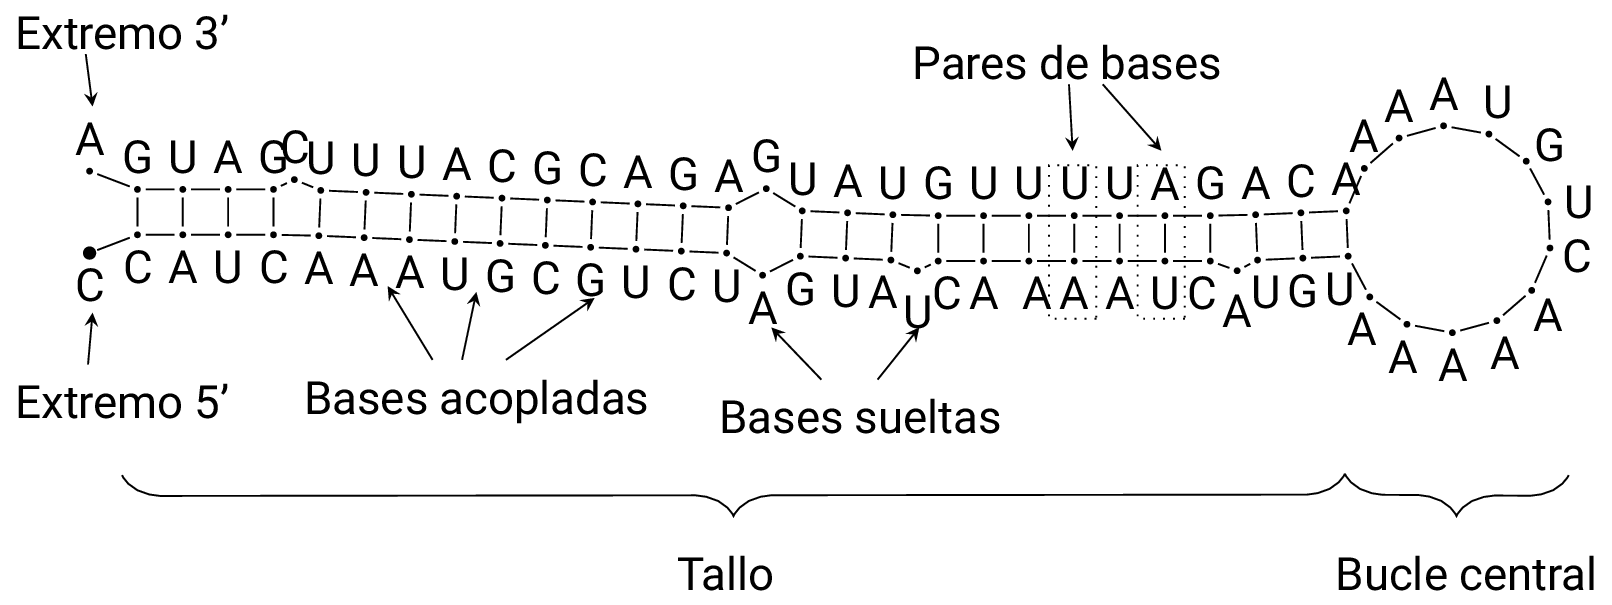
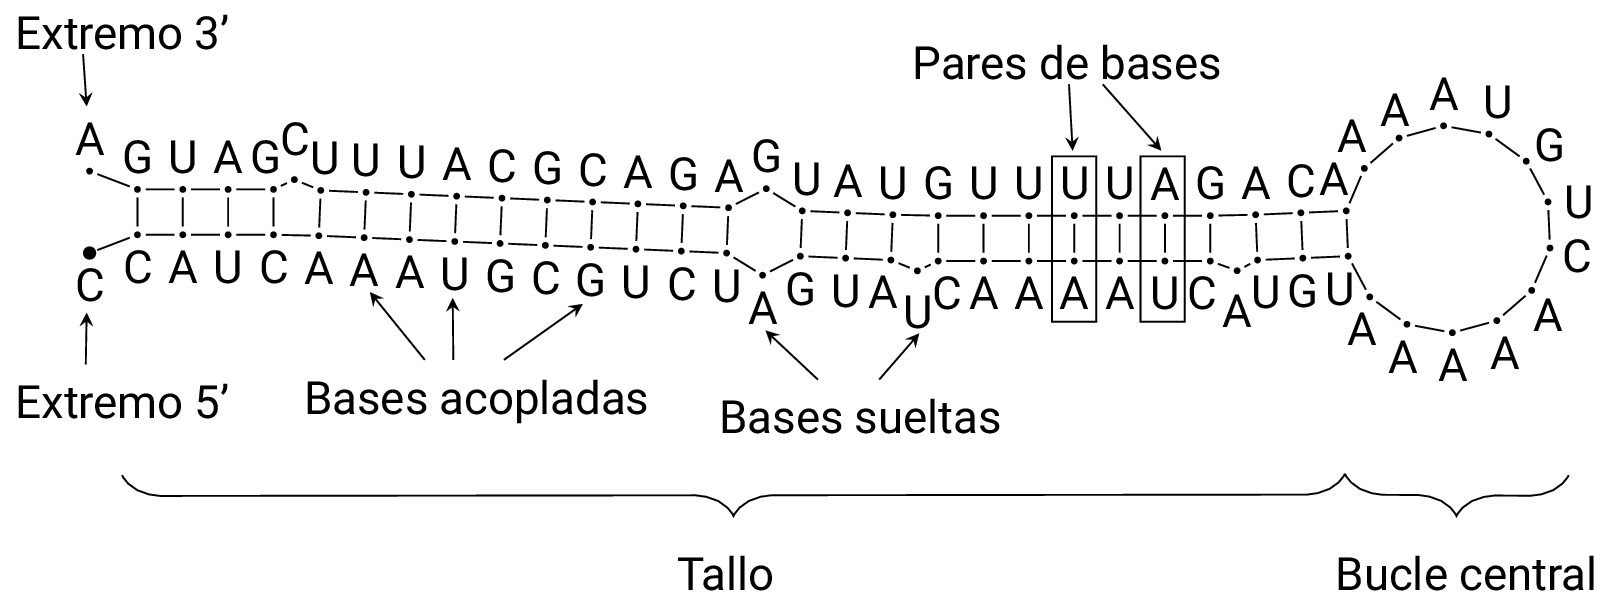
pequeños cambios

diff --git a/figures/hairpin_cel-lsy-6/hairpin.tikz.tex b/figures/hairpin_cel-lsy-6/hairpin.tikz.tex
@@ -48,7 +48,7 @@
 \fill[] (21) circle (1.1);
 \coordinate[label={[xshift=0,yshift=0]below:A}] (22) at (90.3837,27.5196);
 \fill[] (22) circle (1.1);
-\coordinate[label={[xshift=2,yshift=0]below:A}] (23) at (90.3837,12.5196);
+\coordinate[label={[xshift=0,yshift=0]below:A}] (23) at (90.3837,12.5196);
 \fill[] (23) circle (1.1);
 \coordinate[label={[xshift=0,yshift=0]below:A}] (24) at (90.3837,-2.4804);
 \fill[] (24) circle (1.1);
@@ -86,11 +86,11 @@
 \fill[] (40) circle (1.1);
 \coordinate[label={[xshift=0,yshift=0]above:A}] (41) at (135.1205,-124.6396);
 \fill[] (41) circle (1.1);
-\coordinate[label={[xshift=0,yshift=0]above:A}] (42) at (131.0625,-109.9258);
+\coordinate[label={[xshift=-1,yshift=-1]above:A}] (42) at (131.0625,-109.9258);
 \fill[] (42) circle (1.1);
-\coordinate[label={[xshift=0,yshift=0]above:A}] (43) at (121.0159,-98.4354);
+\coordinate[label={[xshift=-3,yshift=0]above:A}] (43) at (121.0159,-98.4354);
 \fill[] (43) circle (1.1);
-\coordinate[label={[xshift=0,yshift=0]above:A}] (44) at (106.9753,-92.4500);
+\coordinate[label={[xshift=-3,yshift=0]above:A}] (44) at (106.9753,-92.4500);
 \fill[] (44) circle (1.1);
 \coordinate[label={[xshift=0,yshift=0]above:C}] (45) at (106.3387,-77.4635);
 \fill[] (45) circle (1.1);
@@ -114,7 +114,7 @@
 \fill[] (54) circle (1.1);
 \coordinate[label={[xshift=0,yshift=0]above:A}] (55) at (106.3387,72.5027);
 \fill[] (55) circle (1.1);
-\coordinate[label={[xshift=0,yshift=0]above:U}] (56) at (106.9753,87.4892);
+\coordinate[label={[xshift=1,yshift=0]above:U}] (56) at (106.9753,87.4892);
 \fill[] (56) circle (1.1);
 \coordinate[label={[xshift=0,yshift=0]above:G}] (57) at (114.3110,99.3921);
 \fill[] (57) circle (1.1);
@@ -136,11 +136,11 @@
 \fill[] (65) circle (1.1);
 \coordinate[label={[xshift=0,yshift=0]above:U}] (66) at (113.1041,231.7661);
 \fill[] (66) circle (1.1);
-\coordinate[label={[xshift=0,yshift=0]above:U}] (67) at (113.7407,246.7525);
+\coordinate[label={[xshift=1,yshift=0]above:U}] (67) at (113.7407,246.7525);
 \fill[] (67) circle (1.1);
-\coordinate[label={[xshift=0,yshift=0]above:C}] (68) at (117.3198,255.4922);
+\coordinate[label={[xshift=0,yshift=2]above:C}] (68) at (117.3198,255.4922);
 \fill[] (68) circle (1.1);
-\coordinate[label={[xshift=0,yshift=0]above:G}] (69) at (114.0726,262.3858);
+\coordinate[label={[xshift=-2,yshift=0]above:G}] (69) at (114.0726,262.3858);
 \fill[] (69) circle (1.1);
 \coordinate[label={[xshift=0,yshift=0]above:A}] (70) at (114.0726,277.3858);
 \fill[] (70) circle (1.1);
@@ -261,22 +261,22 @@ to node [midway, label={[label distance=-20,below]:Bucle central}] {} (stemloop)
 
 \node (loose) at (40,70) {Bases sueltas};
 \node (paired) at (45,200) {Bases acopladas};
-\draw[-stealth] (loose) -- (70,50);
-\draw[-stealth] (loose) -- (70,100);
-\draw[-stealth] (paired) -- (80,160);
-\draw[-stealth] (paired) -- (82,200);
-\draw[-stealth] (paired) -- (84,230);
+\draw[-stealth] (loose) -- (68,50);
+\draw[-stealth] (loose) -- (69,102);
+\draw[-stealth] (paired) -- (78,164);
+\draw[-stealth] (paired) -- (80,208);
+\draw[-stealth] (paired) -- (82,236);
 
-\draw[dotted] (73,-10) rectangle (125,6);
-\draw[dotted] (73,-40) rectangle (125,-24);
+\draw[] (72,-10) rectangle (128,5);
+\draw[] (72,-40) rectangle (128,-25);
 \node (par) at (160,00) {Pares de bases};
 \draw[-stealth] (par) -- (130,-2);
 \draw[-stealth] (par) -- (130,-32);
 
 \node (e5) at (45,320) {Extremo 5'};
 \node (e3) at (170,320) {Extremo 3'};
-\draw[-stealth] (e5) -- (75,330);
-\draw[-stealth] (e3) -- (145,330);
+\draw[-stealth] (e5) -- (75,332);
+\draw[-stealth] (e3) -- (145,332);
 
 
 \end{tikzpicture}

diff --git a/303020-exhaustiva.tex b/303020-exhaustiva.tex
@@ -10,13 +10,13 @@ Dado que no existe una regla general para determinar el número
 recomendado de neuronas ocultas \cite{nnfaq3}, se establece un rango
 de prueba de entre $0$ y $200$ neuronas.
 Por razones de costo computacional, en lugar de efectuar la búsqueda
-sobre todos los valores posibles, se prueban $20$ valores $h$ de
+sobre todos los valores posibles, se prueban $20$ valores $N_h$ de
 neuronas en la capa oculta, variando en una escala aproximadamente
 logarítmica:
 %
 \begin{align}
   \label{mlp-hidden-tries}
-  h=0,1,2,3,4,5,7,9,11,14,19,24,32,41,54,70,91,118,154,200.
+  N_h=0,1,2,3,4,5,7,9,11,14,19,24,32,41,54,70,91,118,154,200.
 \end{align}
 %
 Una vez entrenados y probados los $20$ modelos mediante validación
